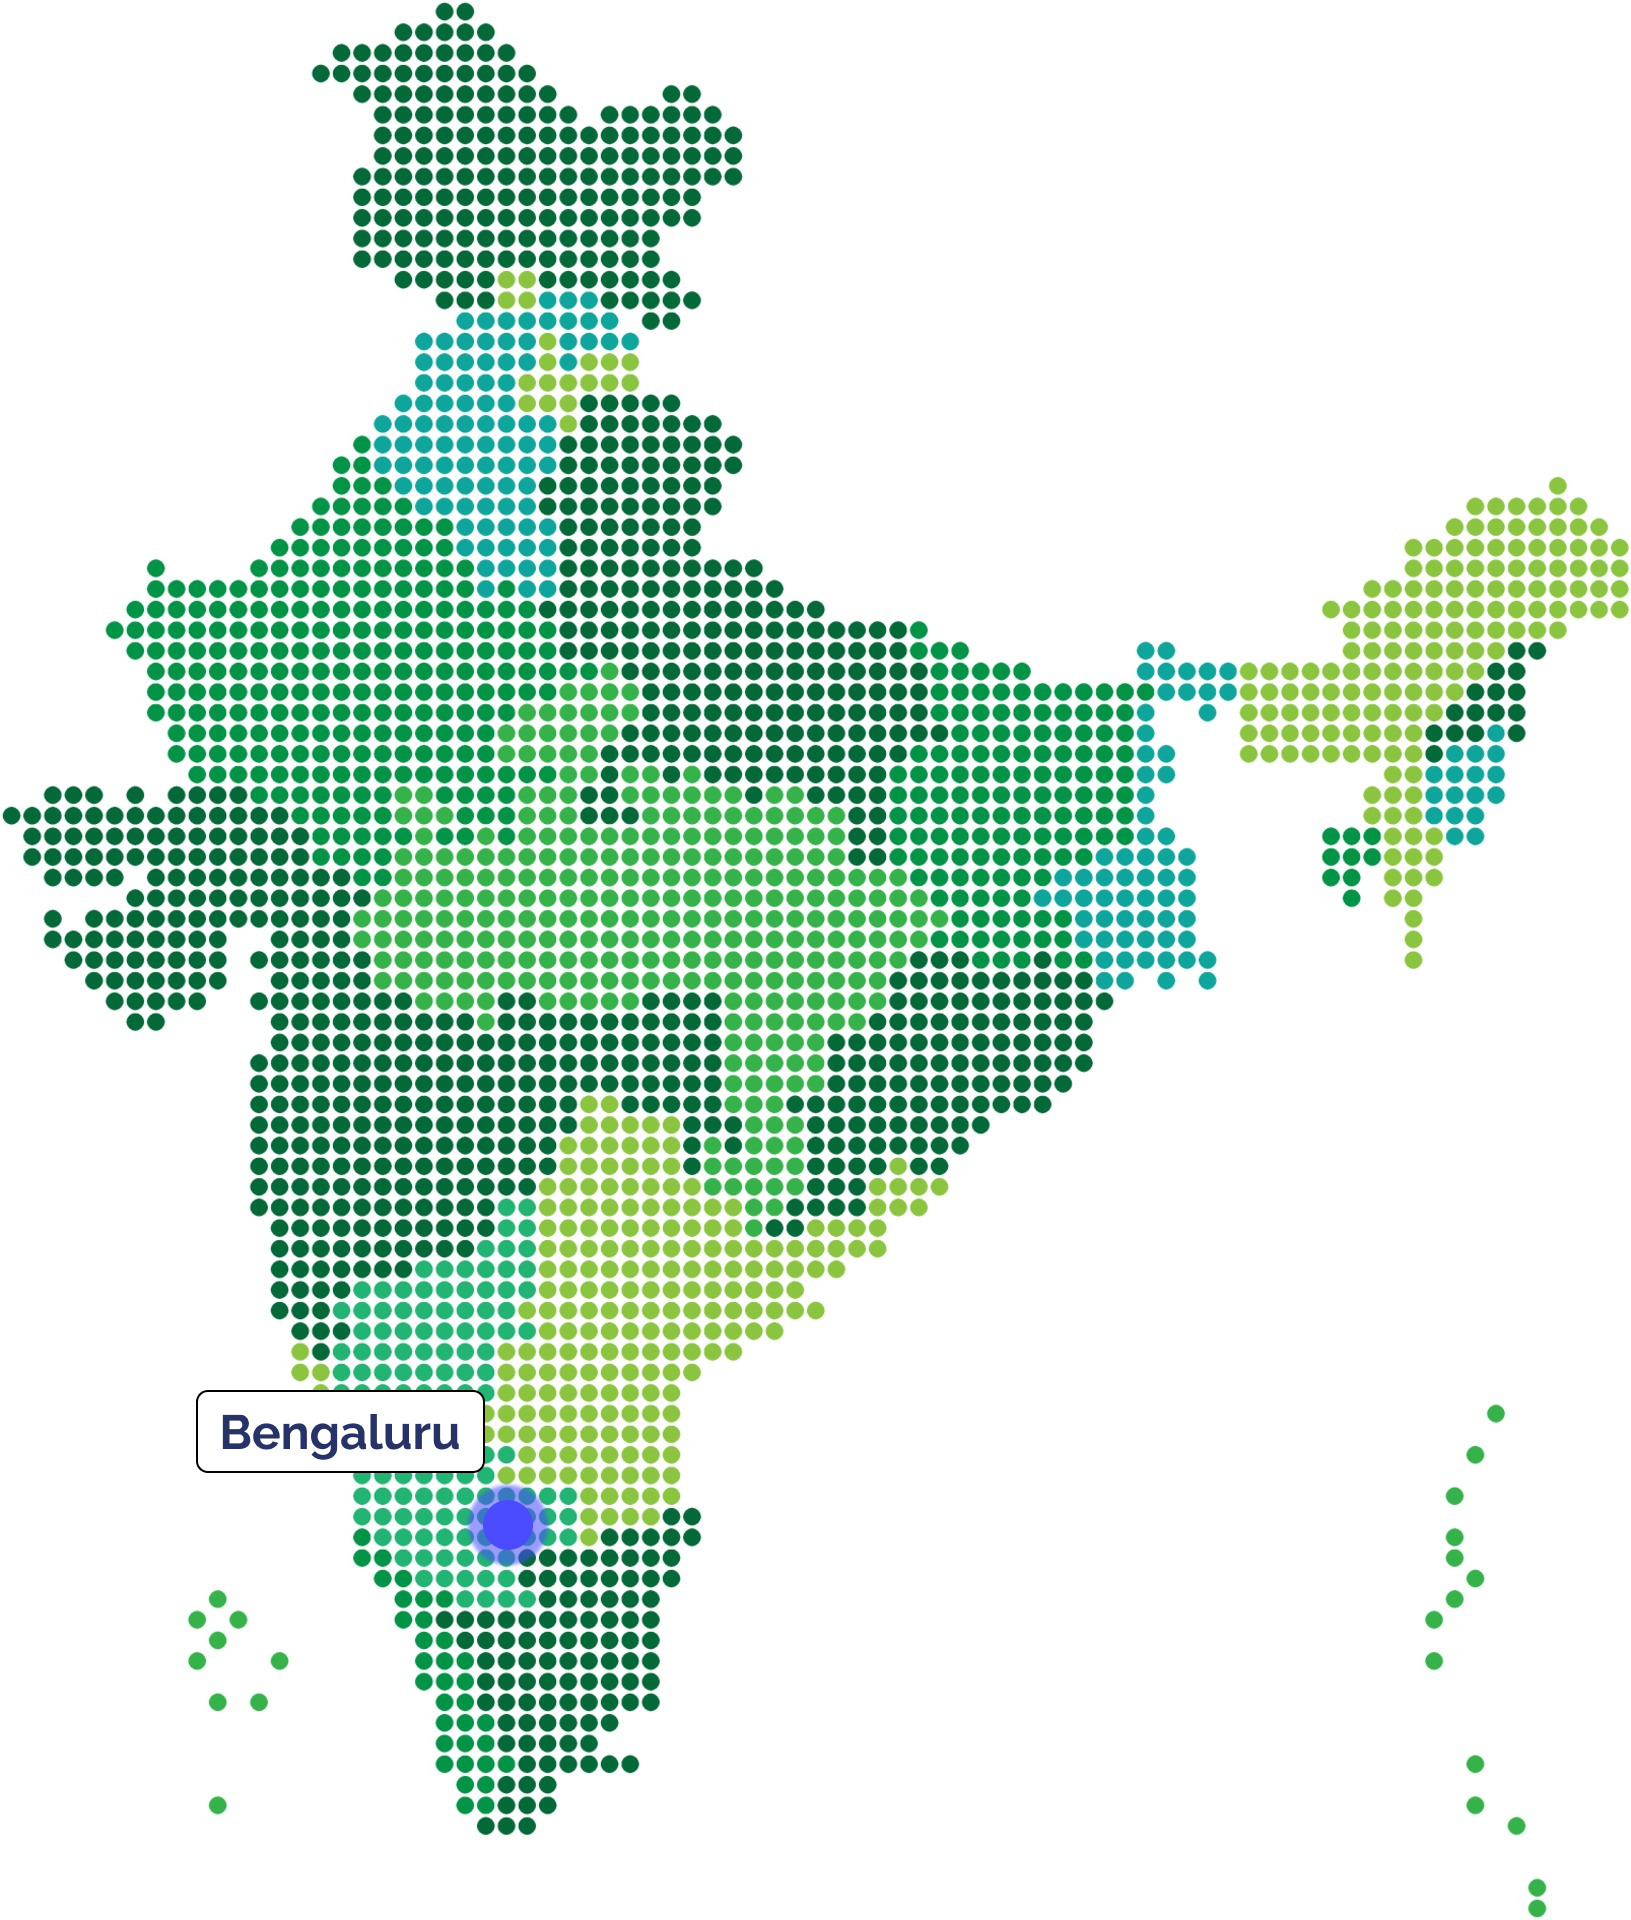
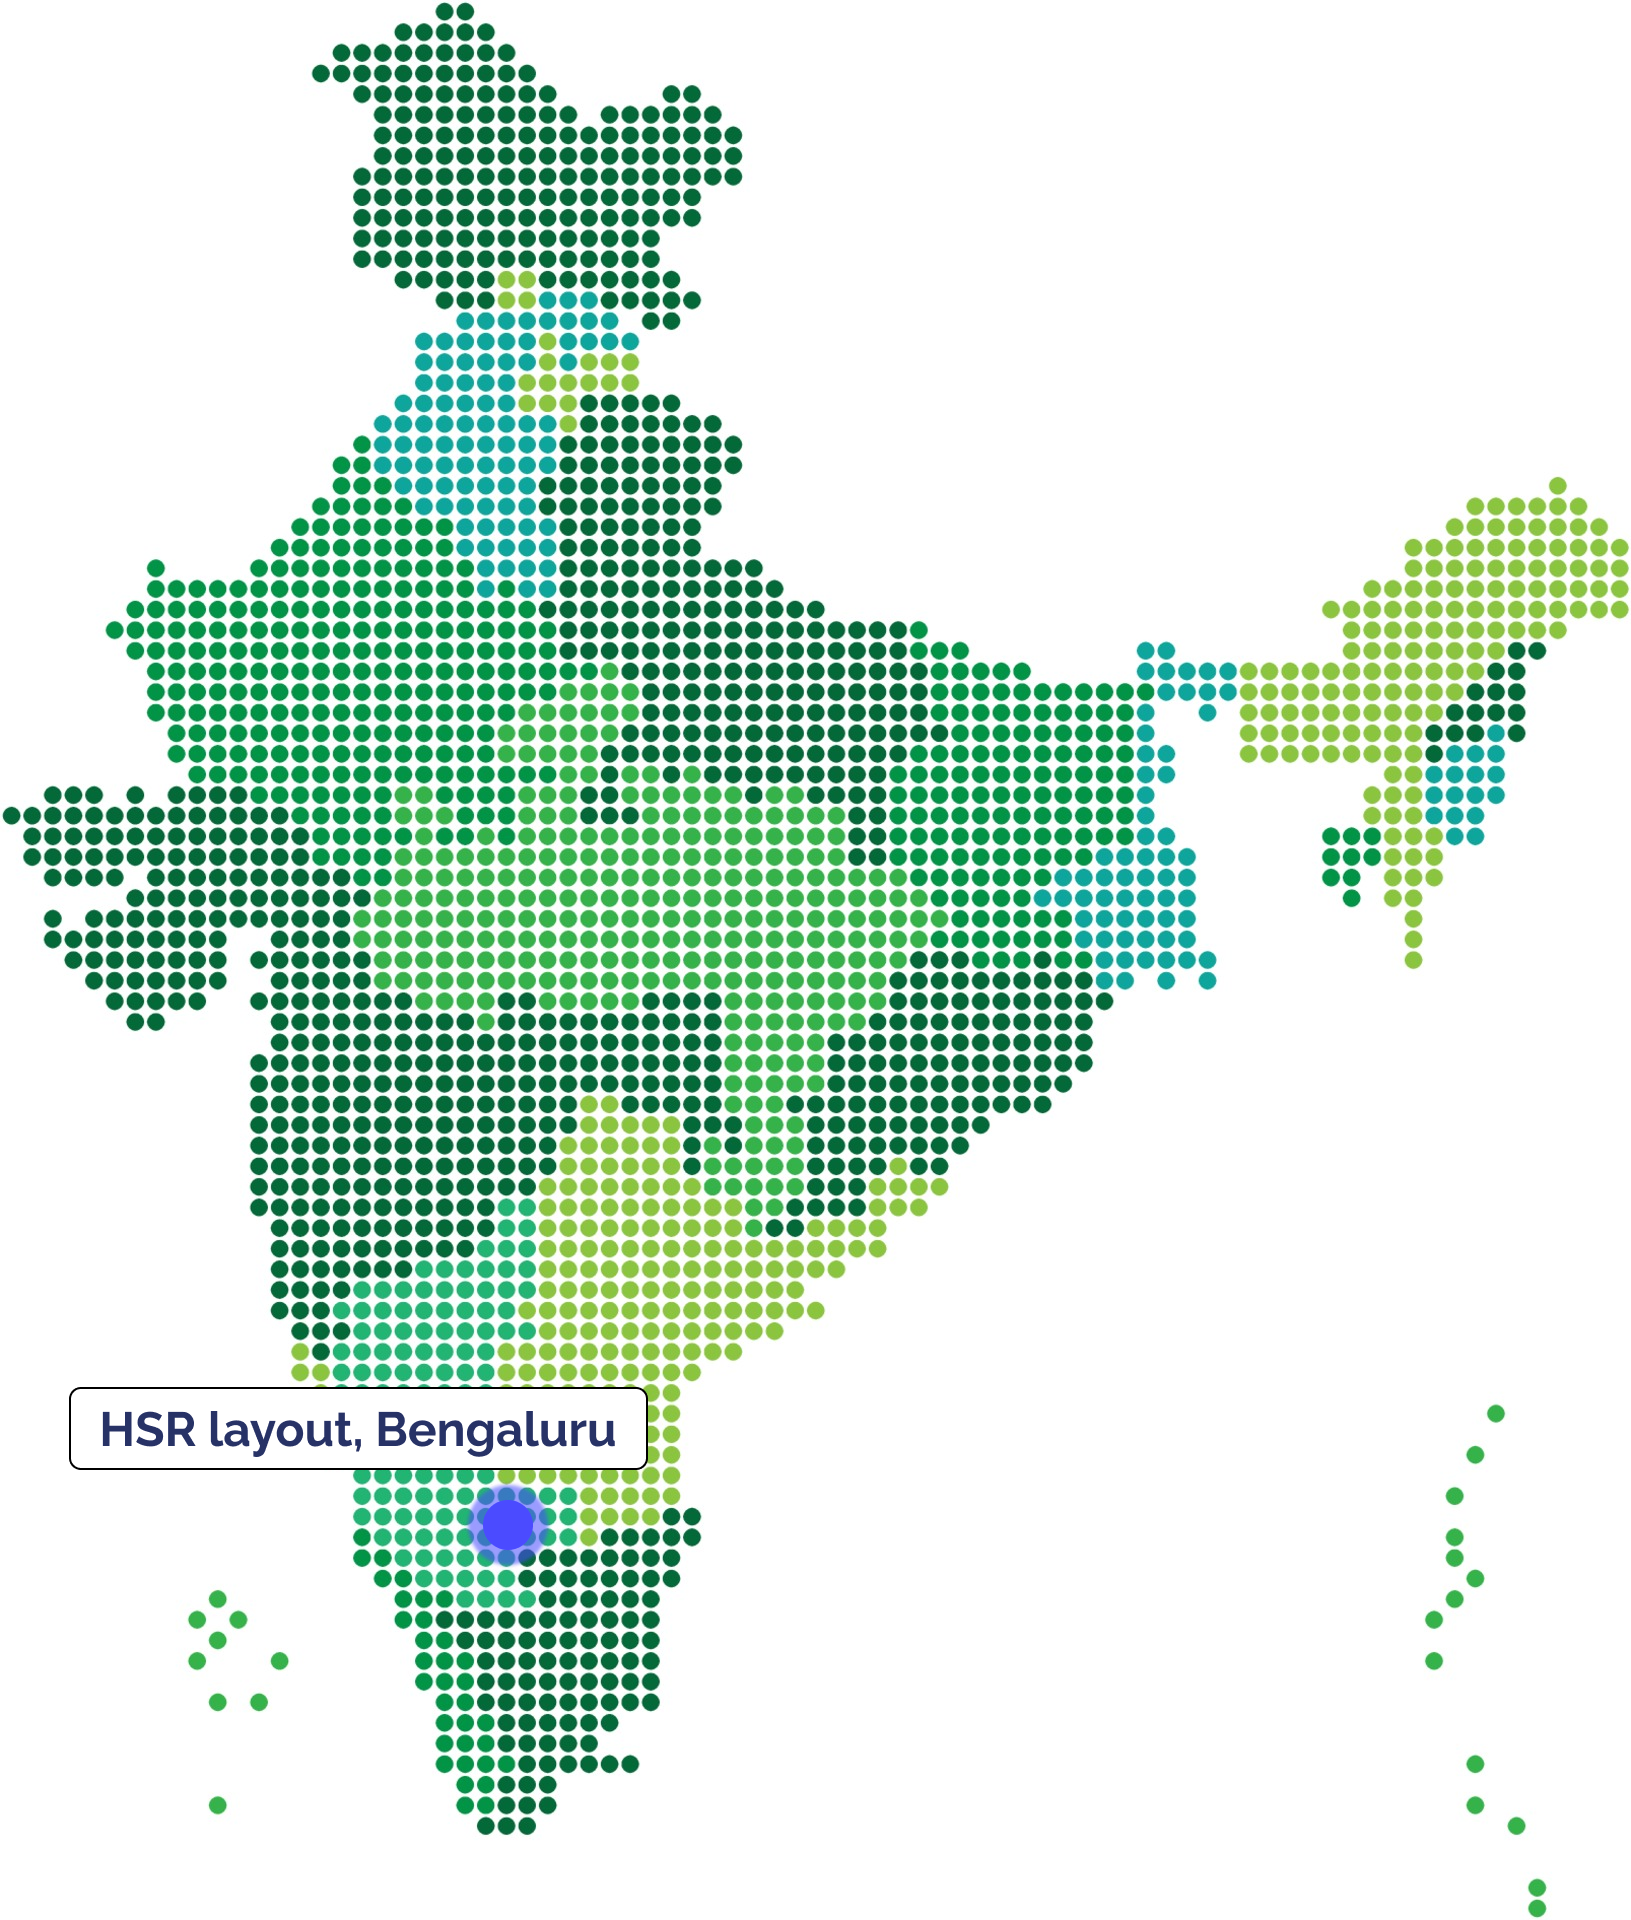
some more changes

Changed region(s): [[0.0613, 0.7188, 0.3985, 0.7812]]

diff --git a/components/post-header.js b/components/post-header.js
@@ -38,16 +38,16 @@ const PostHeader = ({
                 <div className="text-gray-500 flex">
                   <div className="flex items-center justify-center">
                     <User size="18" color="#5433ffcf" />
-                    <div className="ml-1">New grads | </div>
+                    <div className="ml-1 text-sm">New grads | </div>
                   </div>
                   <div className="flex items-center justify-center">
                     <Clock size="18" color="#5433ffcf" />
-                    <div className="ml-1">Full time |</div>
+                    <div className="ml-1 text-sm">Full time |</div>
                   </div>
 
                   <div className="flex items-center justify-center">
                     <MapPin size="18" color="#5433ffcf" />
-                    <div className="ml-1">Bengaluru</div>
+                    <div className="ml-1 text-sm">Bengaluru</div>
                   </div>
                 </div>
               </div>

diff --git a/components/job-card.js b/components/job-card.js
@@ -1,6 +1,6 @@
 import React from "react";
 import Link from "next/link";
-import { Clock, MapPin, ArrowRight, User } from "react-feather";
+import { Clock, MapPin, User } from "react-feather";
 
 const JobCard = ({ job }) => {
   return (
@@ -11,9 +11,6 @@ const JobCard = ({ job }) => {
         className="hover:underline text-xl flex items-center"
       >
         <div>{job.title}</div>
-        <div className="ml-1">
-          <ArrowRight size="16" color="#5433ffcf" />
-        </div>
       </Link>
 
       <div className="text-gray-500 flex">

diff --git a/pages/careers/[slug].js b/pages/careers/[slug].js
@@ -63,7 +63,8 @@ export default function Post({ post, preview }) {
               <PostBody content={post.content} />
               <div className="w-full text-center mt-12">
                 <a
-                  href="javascript:;"
+                  href="https://forms.gle/GhiMRTSh7yEwp6JZ9"
+                  target="_blank"
                   className="cursor-pointer bg-nc-purple-900 text-white font-medium py-2 px-4 rounded"
                 >
                   Apply here

diff --git a/_careers/iot-ninja.md b/_careers/iot-ninja.md
@@ -1,5 +1,5 @@
 ---
-title: "IoT Ninja"
+title: "IoT Ninja intern"
 eligible: "New grads | Full time | Bengaluru"
 ---
 